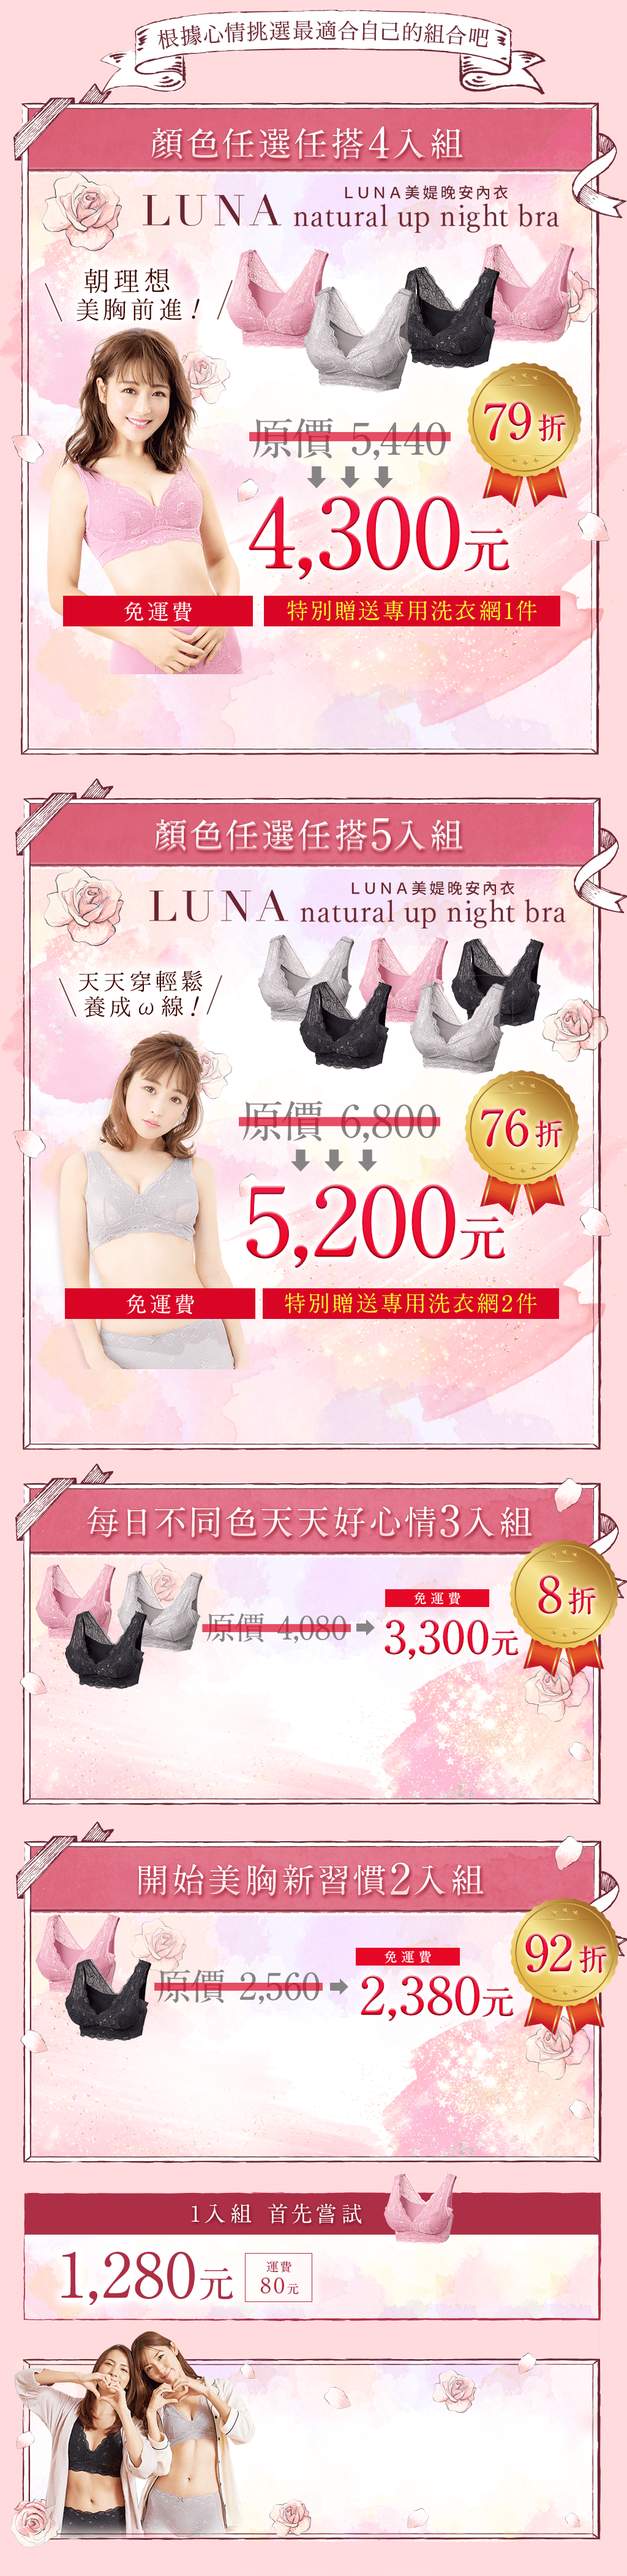
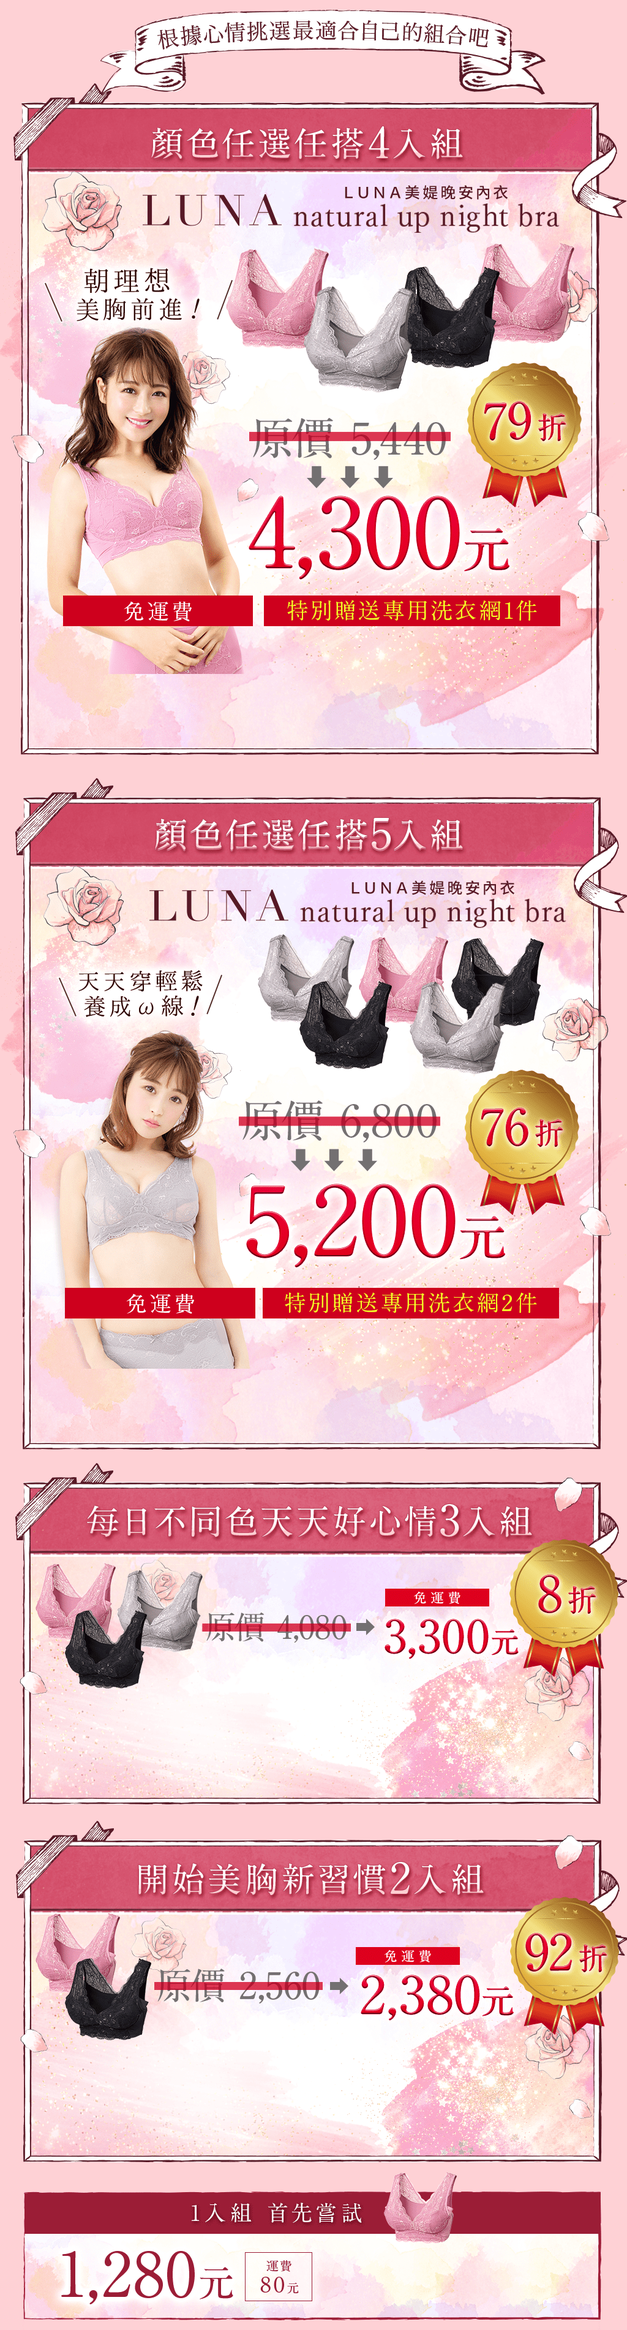
20210114_delete underpants

diff --git a/index.html b/index.html
@@ -120,10 +120,6 @@
                                 <a href="#buy" onclick="acsSelectGroup('1', '1');">
                                     <img src="img/btn/set1_btn.png" class="set1_btn" alt="">
                                 </a>
-                                <!-- 0入組 -->
-                                <a href="#buy" onclick="acsSelectCategory('0')">
-                                    <img src="img/btn/set0_btn.png" class="set0_btn" alt="">
-                                </a>
                             </div>
                         </div>
                     </section>
@@ -154,10 +150,6 @@
                                 <a href="#buy" onclick="acsSelectGroup('1', '1');">
                                     <img src="img/btn/set1_btn.png" class="set1_btn" alt="">
                                 </a>
-                                <!-- 0入組 -->
-                                <a href="#buy" onclick="acsSelectCategory('0')">
-                                    <img src="img/btn/set0_btn.png" class="set0_btn" alt="">
-                                </a>
                             </div>
                         </div>
                     </section> <img src="./img/08_4points.png" alt="">
@@ -186,10 +178,6 @@
                                 <!-- 1入組 -->
                                 <a href="#buy" onclick="acsSelectGroup('1', '1');">
                                     <img src="img/btn/set1_btn.png" class="set1_btn" alt="">
-                                </a>
-                                <!-- 0入組 -->
-                                <a href="#buy" onclick="acsSelectCategory('0')">
-                                    <img src="img/btn/set0_btn.png" class="set0_btn" alt="">
                                 </a>
                             </div>
                         </div>
@@ -223,10 +211,6 @@
                                 <a href="#buy" onclick="acsSelectGroup('1', '1');">
                                     <img src="img/btn/set1_btn.png" class="set1_btn" alt="">
                                 </a>
-                                <!-- 0入組 -->
-                                <a href="#buy" onclick="acsSelectCategory('0')">
-                                    <img src="img/btn/set0_btn.png" class="set0_btn" alt="">
-                                </a>
                             </div>
                         </div>
                     </section>
@@ -254,9 +238,6 @@
                         <a href="#buy">
                             <img src="./img/SP/SP_04_offer_set1.png" alt="">
                         </a>
-                        <a href="#buy">
-                            <img src="./img/SP/SP_04_offer_set0.png" alt="">
-                        </a>
                     </div>
                     <img src="./img/SP/SP_05_confuse.png" alt="">
                     <img src="./img/SP/SP_06_omega.png" alt="">
@@ -277,9 +258,6 @@
                         <a href="#buy">
                             <img src="./img/SP/SP_04_offer_set1.png" alt="">
                         </a>
-                        <a href="#buy">
-                            <img src="./img/SP/SP_04_offer_set0.png" alt="">
-                        </a>
                     </div>
                     <img src="./img/SP/SP_08_4points.png" alt="">
                     <img src="./img/SP/SP_nana2.png" alt="">
@@ -299,9 +277,6 @@
                         </a>
                         <a href="#buy">
                             <img src="./img/SP/SP_04_offer_set1.png" alt="">
-                        </a>
-                        <a href="#buy">
-                            <img src="./img/SP/SP_04_offer_set0.png" alt="">
                         </a>
                     </div>
                     <img src="./img/SP/SP_10_story.png" alt="">
@@ -325,9 +300,6 @@
                         </a>
                         <a href="#buy">
                             <img src="./img/SP/SP_04_offer_set1.png" alt="">
-                        </a>
-                        <a href="#buy">
-                            <img src="./img/SP/SP_04_offer_set0.png" alt="">
                         </a>
                     </div>
                     <img src="./img/SP/SP_17_qa.png" alt="">

diff --git a/css/style.css b/css/style.css
@@ -26,14 +26,14 @@ html,body {
     margin: 0 auto;
     position: relative;
     width: 1024px;
-    height: 4203px;
+    height: 3803px;
     background-position: center;
 }
 .PC .set4_btn{
     width:884px;
     position: absolute;
     right: 7.5%;
-    top: 24.5%;
+    top: 27.5%;
 }
 .PC .set4_btn:hover{
     opacity: 0.8;
@@ -42,7 +42,7 @@ html,body {
     width:884px;
     position: absolute;
     right: 7.5%;
-    top: 51.5%;
+    top: 57%;
 }
 .PC .set5_btn:hover{
     opacity: 0.8;
@@ -51,7 +51,7 @@ html,body {
     width:884px;
     position: absolute;
     right: 7.5%;
-    top: 65.5%;
+    top: 72.5%;
 }
 .PC .set3_btn:hover{
     opacity: 0.8;
@@ -60,7 +60,7 @@ html,body {
     width:884px;
     position: absolute;
     right: 7.5%;
-    top: 79.5%;
+    top: 87.5%;
 }
 .PC .set2_btn:hover{
     opacity: 0.8;
@@ -69,7 +69,7 @@ html,body {
     width:451px;
     position: absolute;
     right: 5.5%;
-    top: 86.8%;
+    top: 95.8%;
 }
 .PC .set1_btn:hover{
     opacity: 0.8;
